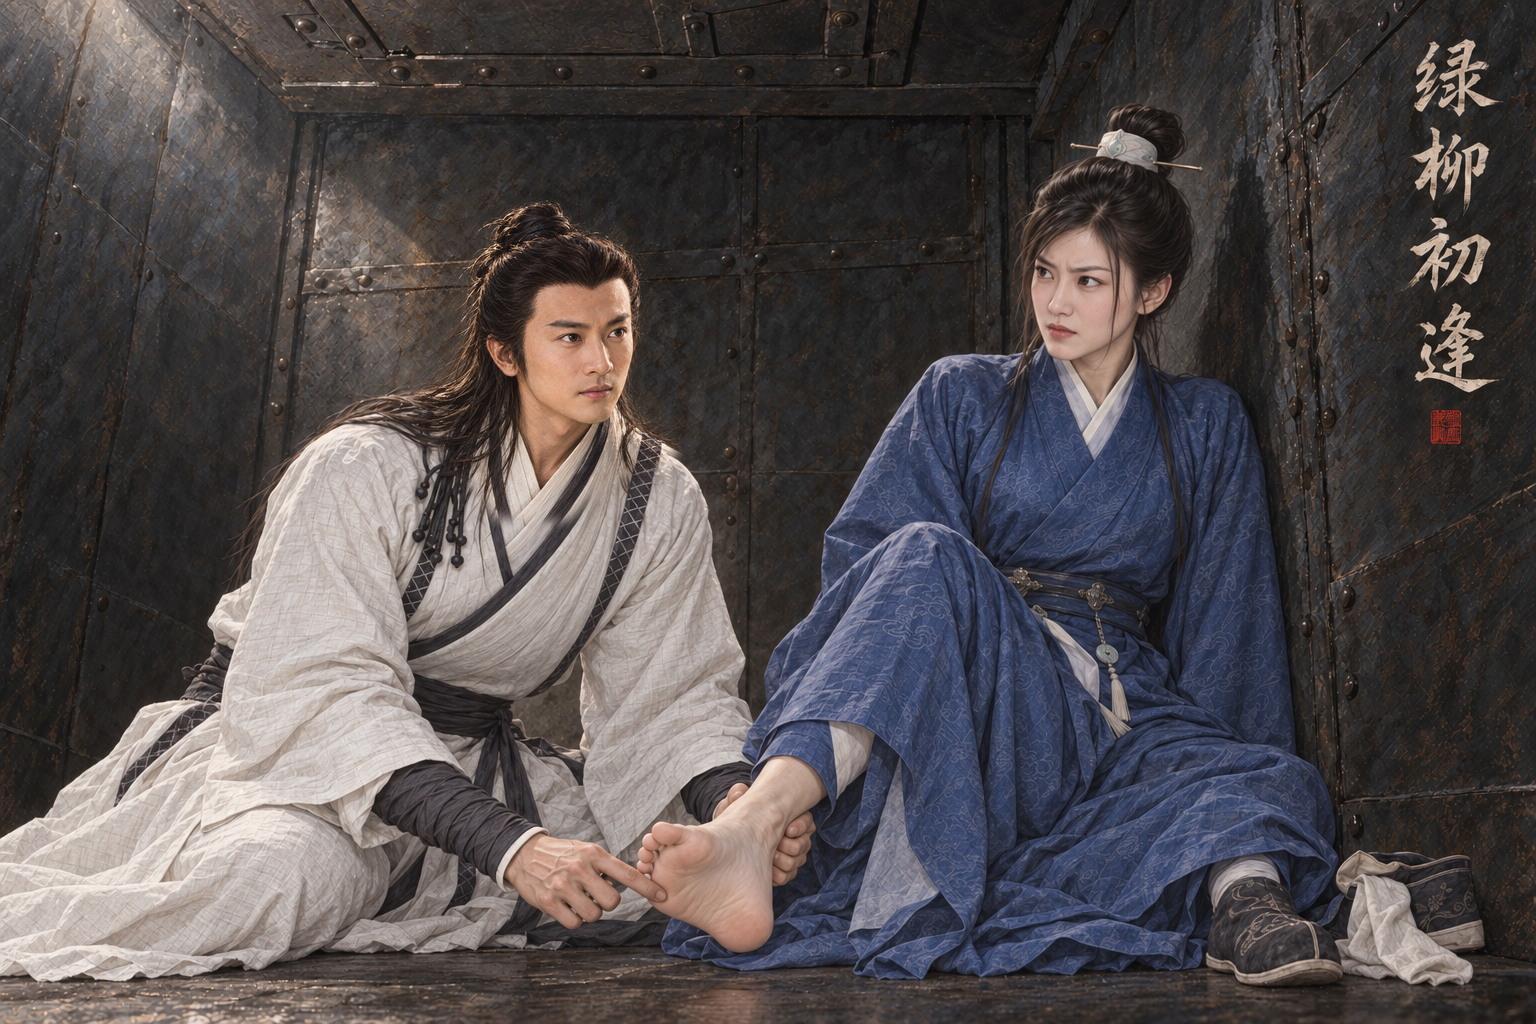
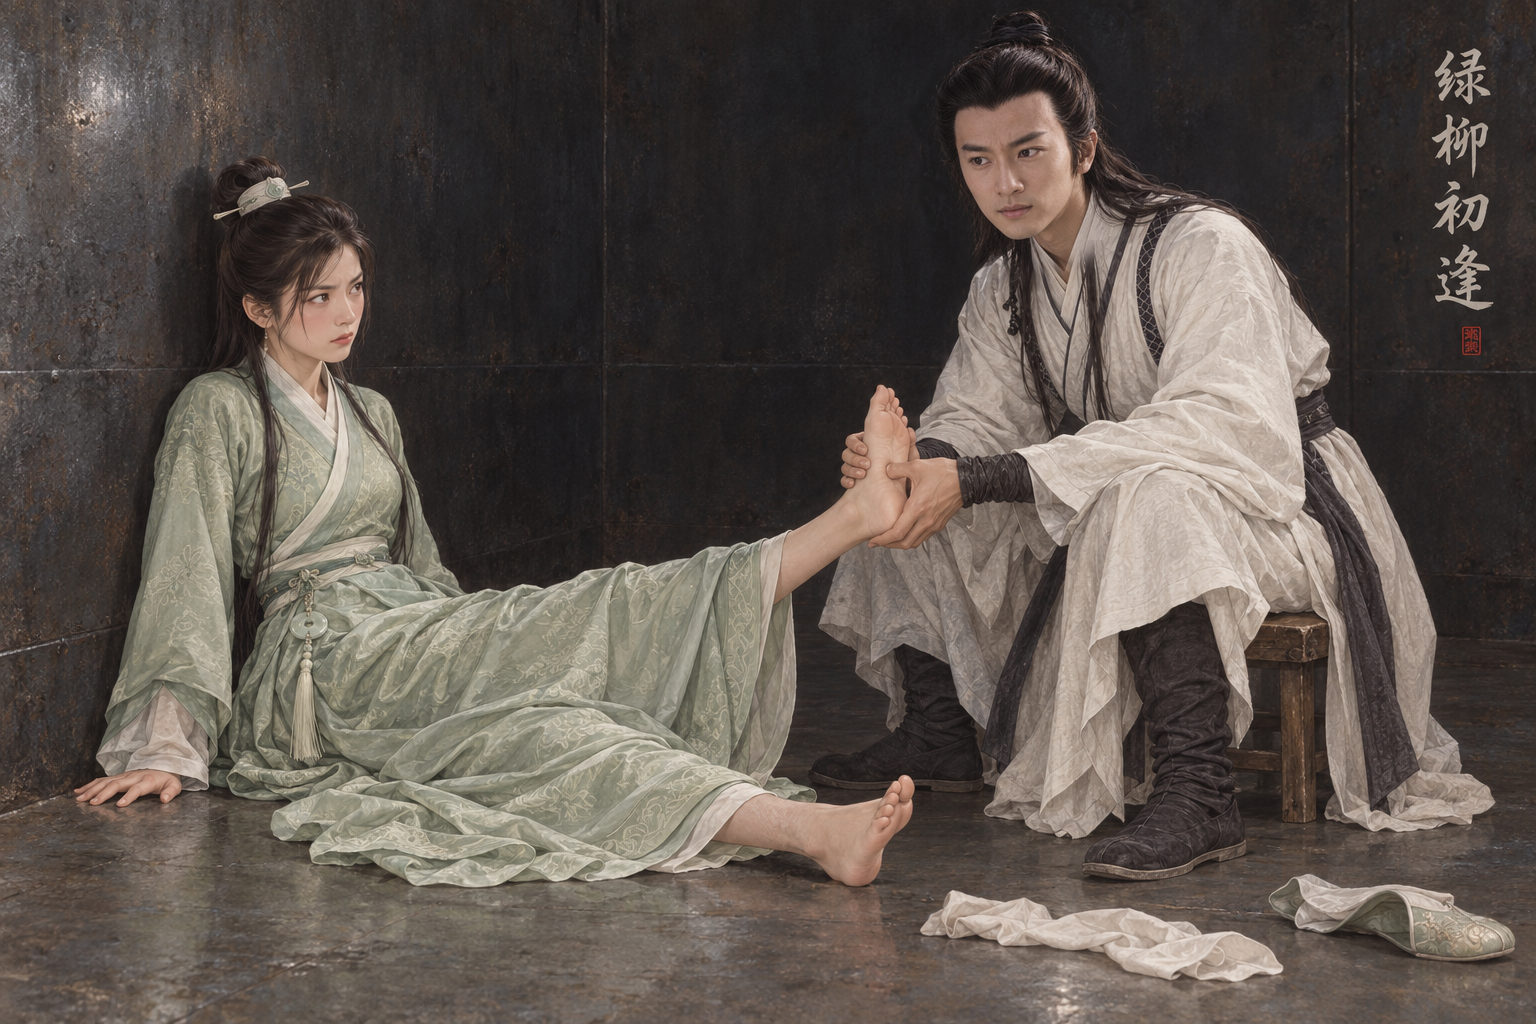
assets(scene): AR-88 绿柳庄照作者剧照动作和镜头重画
侧面平视全身：赵敏左侧坐地伸腿，张无忌右侧坐矮凳托足按穴。核第二十三回纯钢深井、逼开翻板救人、嫩绿女装，身份照F与AR-84 base。重写提示词，保留历史与原著摘句；四张整图逐张检查动作、脸、手足、下巴颈部与简体题字，按AR-53只对齐张无忌头部，对照表在 .agents/coord/_lines/lvliu-redo/lvliu_new.jpg。

Executed-By: Codex gpt-6.1-sol（AR-88）

diff --git a/assets/default/prompts/scenes/ch04-yitian/cg_ch04_lvliu_footplay.md b/assets/default/prompts/scenes/ch04-yitian/cg_ch04_lvliu_footplay.md
@@ -1,27 +1,88 @@
 ---
 asset_id: cg_ch04_lvliu_footplay
-name: "绿柳庄地牢足心制穴"
+name: 绿柳庄地牢足心制穴
 book: ch04_yitian
 characters:
 - npc_zhangwuji
 - npc_zhaomin
 reference_upload:
-- "/Users/bytedance/Projects/jinyongqunxia/.agents/wt/_prod/.agents/coord/_handoff/gem/codex_w11/out/por_npc_zhangwuji__ch04_youth_jiaozhu_base.resume3.png"
-- "/Users/bytedance/Projects/jinyongqunxia/.agents/wt/_prod/.agents/coord/_handoff/gem/codex_w11/out/por_npc_zhaomin__ch04_youth_scene_lvliu.resume3r2.png"
-- "/Users/bytedance/Projects/jinyongqunxia/.agents/wt/_prod/.agents/coord/_handoff/gem/baseline_small/male__ref_npc_linghuchong__ch05_base01.jpg"
-- "/Users/bytedance/Projects/jinyongqunxia/.agents/wt/_prod/.agents/coord/_handoff/gem/baseline_small/male__ref_npc_xiaofeng__ch01_base01.jpg"
+- /Users/bytedance/Projects/jinyongqunxia/.agents/wt/_prod/.agents/coord/_handoff/gem/codex_w33/staging/ar88_lvliu_composition.jpg
+- /Users/bytedance/Projects/jinyongqunxia/.agents/wt/_prod/.agents/coord/_handoff/gem/codex_w33/staging/ar88_zhangwuji_F.jpg
+- /Users/bytedance/Projects/jinyongqunxia/.agents/wt/_prod/.agents/coord/_handoff/gem/codex_w33/staging/ar88_zhangwuji_F_face.jpg
+- /Users/bytedance/Projects/jinyongqunxia/.agents/wt/_prod/.agents/coord/_handoff/gem/codex_w33/staging/ar88_zhaomin_AR84.jpg
+- /Users/bytedance/Projects/jinyongqunxia/.agents/wt/_prod/.agents/coord/_handoff/gem/codex_w33/staging/ar88_zhaomin_AR84_face.jpg
 output: assets/default/scene/ch04/cg_ch04_lvliu_footplay.png
 manifest: assets/default/scene/ch04/manifest.yaml
 size: 1536x1024
 status: candidate
 references:
[4 lines of base64/hex data omitted]
-redo_reason: "作者 10-02 晚：复合基线风格精修"
-composite_job: cg_ch04_lvliu_footplay.resume3
+- path: /Users/bytedance/Projects/jinyongqunxia/.agents/coord/imagegen-reference/identity-20261002/yitian/author_screenshot_lvliu_footplay_20261004.png
+  use: 作者剧照：只取动作、站位和镜头
+  sha256: d4d69d78cfb93fd9309bf5a6ffeaded98ed2dabf96a5b932888d31b403e7d268
+- path: assets/default/character/male/ch04/por_npc_zhangwuji__ch04_youth_jiaozhu_base.png
+  use: 作者认可张无忌F，身份服饰体格
+  sha256: 3320846559f71c5013f03eba4e872004b787141b59e774cba57b33d37bbe7103
+- path: assets/default/character/female/ch04/por_npc_zhaomin__ch04_youth_lvliu_base.png
+  use: 赵敏AR-84恢复base身份发饰；服色依原著嫩绿女装
+  sha256: 9f376a0bcf5639eea74c6b319f287d4867f007a1a5f52c7b95bb38b5269508f8
+redo_reason: AR-88 照作者剧照的动作和镜头重画
 ---
+
+## 原著依据
+
+《倚天屠龙记》第二十三回《灵芙醉客绿柳庄》。2026-10-04以通用User-Agent `TianshuBot/1.0`读取[在线原文](https://yitian.5000yan.com/42033.html)，核查文本在 `.agents/coord/_lines/lvliu-redo/original_ch23.txt`；未宣称核对指定纸本版次。
+
+- 地牢摘句：「纯钢所铸」。水阁下陷阱深四五丈，钢壁光滑无细缝、方圆数尺；高处巨大铁翻板由上面的八根钢条锁住。画连续暗钢深井，不画低矮铆钉箱。原文黑暗，微光为绘画可读性处理。
+- 逼问摘句：「放我出去」。张无忌落牢前已经取得解药，怀中藏着解毒花草；制足穴是逼赵敏开启翻板，脱困救明教中毒众人，不是此刻逼交解药。原文对双足涌泉穴施为；本次单足托举、拇指按穴与坐矮凳依AR-88作者剧照。
+- 张无忌神态摘句：「一心脱困，全无别念」。他急于救人，焦急气恼，画认真逼问且不笑（AR-69），不轻薄。
+- 赵敏神态摘句：「又惊又怒」。她硬撑不肯放人，受制时笑哭气恼交错，事后羞红；按作者口径画又羞又恼又强撑的瞬间。
+- 赵敏服饰摘句：「嫩绿绸衫」。返回水阁时她已换女装，故用嫩绿衫裙；脸、发髻、玉饰照AR-84恢复base。原著服色女装覆盖base蓝色男装。张无忌此段未另写服色，照F白袍深边。
+- 道具：原文双足鞋袜脱下；本图双足赤裸，一足托起、一足落地，软鞋白袜落地。矮木凳依作者剧照加入，原著无凳描述。
+
+## 当前提示词（AR-88，整张新生成）
+
+```text
+本次纠正前三张共同问题，下面两条优先级最高：
+1. 托足按穴必须是拇指，不是食指。做一个真实的两手抱托足姿势：托前脚掌的手，食指、中指、无名指、小指全部弯曲包在脚掌外侧，绝不伸出任何一根长直食指去戳足底；宽短的拇指从虎口伸出，以柔软的拇指指腹按在足心凹处，拇指根部与手掌的连接必须清楚。手掌部分转向足底、拇指在最靠近足心的一侧，其他四指只抓握支撑。另一手在后跟下承托。画真实的拇指指腹按压，禁止食指指尖戳足心。
+2. 张无忌必须是图2/3作者认可F本人，不能另换一个锐鼻硬下巴的侧脸男人。身体侧向赵敏，头自然向镜头稍转约35–45度，两眼均能读到但仍看左边赵敏。完全保留F的眼眉、鼻唇和温和青年颌骨形状，表情严肃不笑，顶髻只有F的黑色发束，不能增加白色玉带冠。不得复制图1演员侧脸。
+
+Use case: historical-scene / illustration-story
+从零新生成1536×1024横幅写实手绘武侠剧情插画，《倚天屠龙记》绿柳庄地牢足心制穴，整张重画，全员明确成年。
+
+参考图分工：图1作者剧照，仅取人物动作、左右站位、距离、高低关系、侧面平视镜头和两人全身取景，不取演员脸、服装、发型、灯光、摄影画质或字幕。图2/3是同一位张无忌的作者认可F全身与头肩，唯一的张无忌身份参考；图4/5是同一位赵敏的AR-84恢复base全身与头肩，唯一的赵敏身份参考。使用参考里的同一个人，保留各自骨相五官、发型头饰，不重新设计相似陌生人，不串脸，不借用图1演员。赵敏神态与服色按下述本场要求变化。
+
+动作和镜头照图1：平视侧面中景，两人位于中部，从头到脚都完整入画，左右各留空地和墙面，人物高度约画高65–75%。赵敏在左，坐在地面，背靠钢壁，上身微后仰，一手撑身侧地面、另一手自然放身侧，脸朝右边张无忌看他。两腿从髋部向右前方伸出，一腿稍抬、一只赤足被张无忌双手托起，另一腿伸在地面、另一只赤足着地。长裙完整遮住大腿及小腿上部，膝盖不高耸抱胸。被托脚尖向上，足心大致朝张无忌，侧镜头看见足弓和部分足底，踝、后跟、足掌、五个脚趾真实连贯，腿脚朝向自然，不扭踝、不多脚。
+
+张无忌在右，坐在她脚边的简单矮木凳上，双脚穿深靴自然着地，侧身朝左，身体自然微前倾。他双手共同托起她同一只赤足到自己下胸口，一手托踝下和后跟，另一手托前脚掌，拇指明确按足心凹处；手掌有真实支撑和握力，手指从袖口连续长出、关节自然，每手五指但允许合理遮挡，不能指趾融合、手掌悬空或手指插穿足掌。坐凳男子头部略高于坐地女子，保持图1高低关系和人体重心，不画半跪或蹲坐。两人对视，头稍向画面转来，使自然的三分之二侧脸可读；不看观众。下巴与颌颈过渡自然、脖子从衣领自然长出，不尖长下巴、不扭颈。头身与肩宽照F，头不过大、肩不窄、不是健美体格。
+
+张无忌必须是图2/3的同一青年：F的白色交领袍、深镶边、黑灰腰带与腕部布带，头发束起、侧发珠饰照F。神态急于脱困救明教中毒众人的认真逼问：眼神坚定而焦急，口闭合、嘴角平直、绝不笑，不轻薄不调情。
+赵敏必须是图4/5的同一郡主：眼型、眉鼻唇、脸型骨相保持，头顶束髻、浅玉发饰与簪照base，神态又羞又恼又强撑，轻蹙眉、脸颊略红、双唇绷住，倔强看他，不用base的露齿笑。服饰依原著此次已换女装，身穿嫩绿丝绸交领衫与完整长裙，精细古雅暗纹、白内领和腰间玉坠可保留base样式；不可穿蓝色男袍，不照抄图1的红衣黄裙。双足鞋袜均脱，一足托起、一足落地，脱下的软鞋和白色罗袜自然落在两人脚边，不摆齐陈列。剧情是受制逼问和救人之急，不是暧昧摆拍。
+
+地牢依原著：水阁下纯钢铸的狭窄深井，深四五丈，连续光滑冷硬暗钢壁、钢底板，钢壁无明显细缝，克制的金属旧化；不画砖石、栅栏、窗或低矮顶棚。巨大铁翻板闭合在高处，此平视镜头让钢壁向高处消失来暗示井深，不硬塞低顶；上面八根钢条在翻板上方不可见。无第三人、无烛台、无随手可开机关、无满壁铆钉。柔和微光只为面容动作可读的绘画处理，仍显昏暗狭窄。矮凳只依作者指定剧照加入，原著未写凳。
+
+画风照STYLE.md与两份base：写实手绘古风武侠，男性偏写实、女性古典美丽，自然骨相及细微不对称，细腻笔触、皮肤真实而不磨皮，头发不过锐，布料经纬、丝绸厚薄与自然垂坠可读，低饱和沉稳设色、柔和明暗。不是照片、电视剧复刻、3D塑料CG、动漫、网红美颜或厚涂油画。
+
+题字：右上角竖排一列毛笔楷书，严格规范简体，自上而下四字「绿」「柳」「初」「逢」，合为「绿柳初逢」。每字独立清楚准确，占画宽约6%、高约28%，不挡脸；可附无可读文字小朱印。禁止繁体「綠」、日文字形、错字、增减字、其他文字、字幕、水印、Logo或边框。
+避免：陌生脸、串脸、剧照演员五官、赵敏蓝男装、张无忌微笑、开心大笑、足部特写、裸露大腿、指趾融合、错肢、拧踝、脚不连腿、鞋袜仍穿在被托脚上、尖长下巴、扭脖、浮空坐姿、照片光影、发光穴位武功。
+
+再次强调：这次不是食指点穴。四根长手指弯曲抓足，大拇指腹按足心；只画F同一身份。
+```
+
+## 最终身份合成（AR-53，仅张无忌头部）
+
+选第4张从零整图，随后以F唯一身份生成第5次头部补丁。原生补丁1254×1254，缩至350×350，合成框 `[880,0,1230,350]`；头部边缘2px过渡，颈部收窄蒙版以8px过渡匹配衣领。最终蒙版与参数见 `.agents/coord/_lines/lvliu-redo/selected.json`。蒙版外逐像素保留所选新整图，赵敏、托足、鞋袜、钢壁、题字均不改。已打开头部、颈部接缝、最终整图与base并排表检查。
+
+```text
+Use case: identity-preserve / compositing
+生成一张1024×1024写实手绘武侠头部补丁，重建图3遮灰的头部，不能做整幅场景。
+图1是作者认可的F张无忌，唯一五官身份来源。图2是同一F全身，发型衣领身份补充。必须用这同一个男子，不创造相似的男人。准确保留他的眼眉、鼻唇、颧骨、软而自然的青年下巴，不能换锐鼻硬长下巴的侧脸，不改变年龄。原base的笑意改为急于救人时认真逼问：闭口，嘴角平直、不笑，眉略收。
+图3只是构图、头部大小位置、颈部朝向、衣领、钢壁与光线的局部参考，错误旧头已遮灰。不要把灰色轮廓作为新头外轮廓。重新从图1建立F的头发和脸。所有灰色区域都画完整，不能留下灰斑。图3有现成白袍深边、身体倾角与暗钢背景，其余保持图3内容和位置，不改衣服、肩膀、边框。
+机位：身体朝左，头稍向画面转来呈自然三分之二侧面，yaw约35–40度，两眼均可读，目光向左下方另一人物；不能正脸看镜头，也不做90度锐鼻侧脸。F原骨相和五官要一眼辨认，同一脸只改变转头和表情。闭口不笑、严肃克制，不轻薄。面容中心大约(415,510)，黑色顶髻中心约(415,70)，下巴约y=760，颈部自然接到图3保留的衣领(y=885附近)；原图的头部大致大小不变，不把脸扩大，不拉长下巴。左边脸廓不要伸到x=160以内，右边头发耳廓不要超出x=650。
+发型完全照F黑色半束顶髻，黑发束结，不加白玉冠、白色丝带或别人的头饰。面容与头发用细腻手绘笔触，匹配图3地牢内柔和灰暗光、肤色不过白，不把明亮纸底人脸生硬贴入黑钢壁。颈部肌肉放松自然，下巴圆转，肩颈接合顺畅。保留F侧发细珠饰特征，长发自然沿原肩方向落下。
+画满整张正方形补丁，灰色头部由F替换，外部仍为图3自然背景及衣领，不要文字、箭头、标记、边框、照片质感或塑料美颜。最重要：图1F是唯一身份，面容不能再凭通用英俊男演员重设计。
+```
+
+## 历史提示词（AR-88之前，不再用于出图）
 
 ## Gemini 提示词
 
@@ -61,3 +122,30 @@ composite_job: cg_ch04_lvliu_footplay.resume3
 排除项：不要文字、题字、字幕、水印、签名、Logo、边框或分镜格；不要未指定的多余人物（明确要求的远景群像除外）；不要幼态、儿童体态、性化处理、裸露或恋物特写；不要血腥特写、断肢、尸体堆叠或伤口细节；不要真人、演员、影视剧照复刻；不要多余肢体、手指错误、脸部融合、身份串脸、时代错装、现代物件、动漫风、摄影棚感、3D 塑料感。
 ```
 
+### 历史实际执行提示词（77849441／AR-86，来自入队前manifest，不再用于出图）
+
+```text
+Use case: identity-preserve / historical-scene
+生成 1536×1024 横幅写实手绘古风剧情插画。《倚天屠龙记》绿柳庄地牢足心制穴；这是 AR-75 作者明确要求的整张重画。
+参考图1：唯一构图、钢牢环境、人物站位、动作、视线关系与题字参考（旧插图）。参考图2：张无忌最新 F 定稿全身，面容、发型、头部和肩胸比例以它为准。参考图3：F 头肩特写，锁定张无忌原面容，不能换脸、不能添笑。参考图4：赵敏作者认可的最新 base 全身（恢复版 f1cd1652），唯一赵敏身份与服饰参考。参考图5：该 base 头肩特写，锁定赵敏眉眼鼻口脸型与发髻。不得从参考图1旧脸取身份。全员明确成年人。
+场景与构图：狭窄封闭的暗钢地牢，暗钢壁、铆钉、上方紧闭铁翻板；没有第三人，没有烛台，没有可自行打开的机关。张无忌在画面左下坐蹲/半跪，赵敏靠右侧钢壁坐着，双人中景和原画类似。保持原图俩人朝对方看的视线与完整人体重心；柔和微光使面容可读，低饱和沉稳画风，布料有自然笔触与褶皱，不要照片质感或三维CG。
+张无忌：严格照参考2/3 F 的五官与发式，青年成年、沉稳认真，原F头身约7.43，肩胸只略宽，绝非健美身材。穿 F 白色交领深边浅色长袍、深布腰带。侧身逼问赵敏如何命守卫打开地牢翻板，眼神坚定且克制，嘴角不笑，不能画成调情、玩弄、轻薄。
+赵敏：严格照参考4/5 base 的五官身份，成年年轻的聪慧郡主，长袍男装、蓝色完整宽松交领衣，头发束髻和原base一致。状态是被制住后又羞又恼、抿唇蹙眉，带难堪的倔强，与张无忌对视；保持骨相五官，不复制 base 的开心笑容。
+核心动作：赵敏一腿抬起屈膝，脚向画面下方的张无忌；这只脚已脱掉鞋袜，要从踝到五个脚趾完整清楚地露出，必须是赤足，不能还裹袜子、不能隐藏在袍摆里。张无忌一手稳稳握住该只裸足的后跟/踝部，另一手食指轻触其足心穴道，手与脚解剖自然、手脚不能融合，明确可读的足心制穴动作。鞋与袜整齐放在赵敏身旁，另一脚仍穿鞋袜。长袍遮住大腿，裸足在下缘占适当小比例，不特写；重点是俩人目光交锋与逼问关系。
+题字：右上角保留原画竖排毛笔楷书「绿柳初逢」，严格四字从上到下，无其他可读文字；小朱印可沿用旧图气质。
+必须通过：俩人一眼是 F 张无忌与最新base赵敏；两脸不能沿用旧插图；赤足脚趾清楚、足心点穴与另一手握足同时可读；赵敏羞恼、张无忌严肃逼问；同原图封闭钢牢与构图关系；人物手绘质感自然、无拼接和错肢。
+【不要】不要旧图张无忌或旧图赵敏的脸、陌生脸、串脸、开心大笑、色情或恋物特写、裸露大腿、现代物、第三人、发光武功、浓妆塑料皮肤、真人照片质感、过强轮廓光、错手错足、多余手指、足趾融合、鞋袜还穿在被握的脚上、脚被衣摆遮住、文字错漏。
+
+
+# 最终头脸补丁（v3；v1/v2张无忌旧脸未通过，不采用）
+Use case: identity-preserve
+Draw a 1024x1024 hand-painted Chinese wuxia head-and-shoulders patch.
+Image 1 is the ONLY facial identity source: the AUTHOR-APPROVED final F portrait of Zhang Wuji. Copy this man's actual facial structure, eye shape, eyebrow shape, modest straight nose, lip shape, youthful jaw and chin. Image 2 is the full portrait of the SAME man, for costume and hair. Image 3 is a local COMPOSITION GUIDE with the obsolete wrong face and crown deliberately blanked out. Reconstruct the blank area as the man from image 1, NOT a generic side-profile actor. There is no face in image 3 to copy. Do NOT copy the contour of the blank area's edge as the head outline.
+Output has exactly the framing and neck/collar/steel-cell backdrop of image 3. Face centre approximately (520,460) within a 1024x1024 image; main hair crown at approximately y=180, chin approximately y=700. He is an adult young man, eyes looking towards someone off frame to the RIGHT, yaw about 35 degrees to the right so BOTH eyes are clearly visible, not a near side-profile. Keep the camera orientation and seated body direction from image 3. Natural neck connection, not a pasted frontal face. Serious restrained interrogation, closed mouth, level lips, no smile and no flirtation. Keep image 1's face recognizable in this slight three-quarter turn. Avoid a long projecting nose or broad hard jaw; the soft youthful face must look like image 1.
+Hair tied in the same half-up dark topknot as F; retain characteristic dark side locks and beads, softly matched to the cellar lighting. The head should be six percent smaller than the missing old head: use F's comfortable head-to-shoulder proportions. Clothing in image 3 stays white with dark crossing edge and embroidered trim. Steel wall and muted paint texture, warm subtle skin shadows, same hand-drawn style as F. No photorealistic actor snapshot, no plastic skin.
+Paint a complete finished image, fill the empty grey silhouette with the proper head, natural face edges and adjoining neck/hair, no grey holes remaining. Do not change the crop borders, shoulders or clothes, because the result will be merged into an existing illustration. No text, no arrows, no labels.
+最重要：图1是唯一正确身份。画成该张F的张无忌，不能又画旧插图那张宽鼻侧脸！图3的空白头只是遮掉的错误脸，必须从F重新建立自然三分之二侧转的人脸，两眼都清晰可见。严肃逼问，不笑。
+
+
+合成：原生1254×1254头肩补丁缩至384×384，合回body v1的[384,172,768,556]，外缘5px过渡；赵敏、赤足、两只手与题字沿用已检查body v1，头肩补丁外逐像素不变。参数与蒙版见 .agents/coord/_lines/zhangwuji-final/composition_lvliu_final.json。
+```
